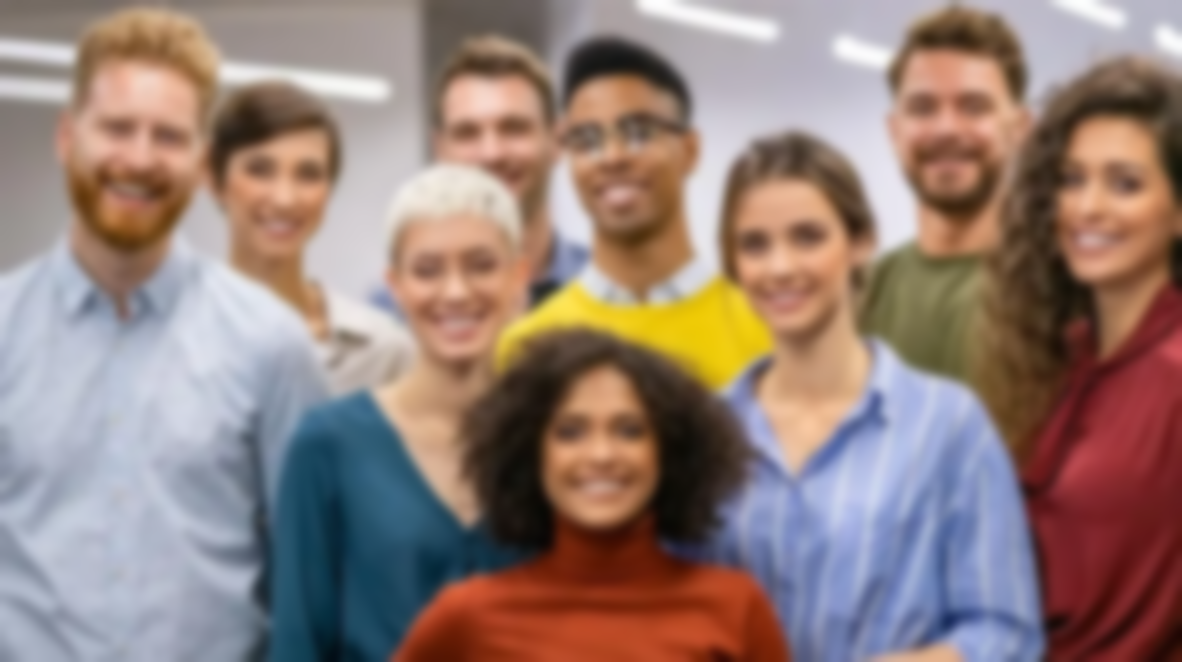
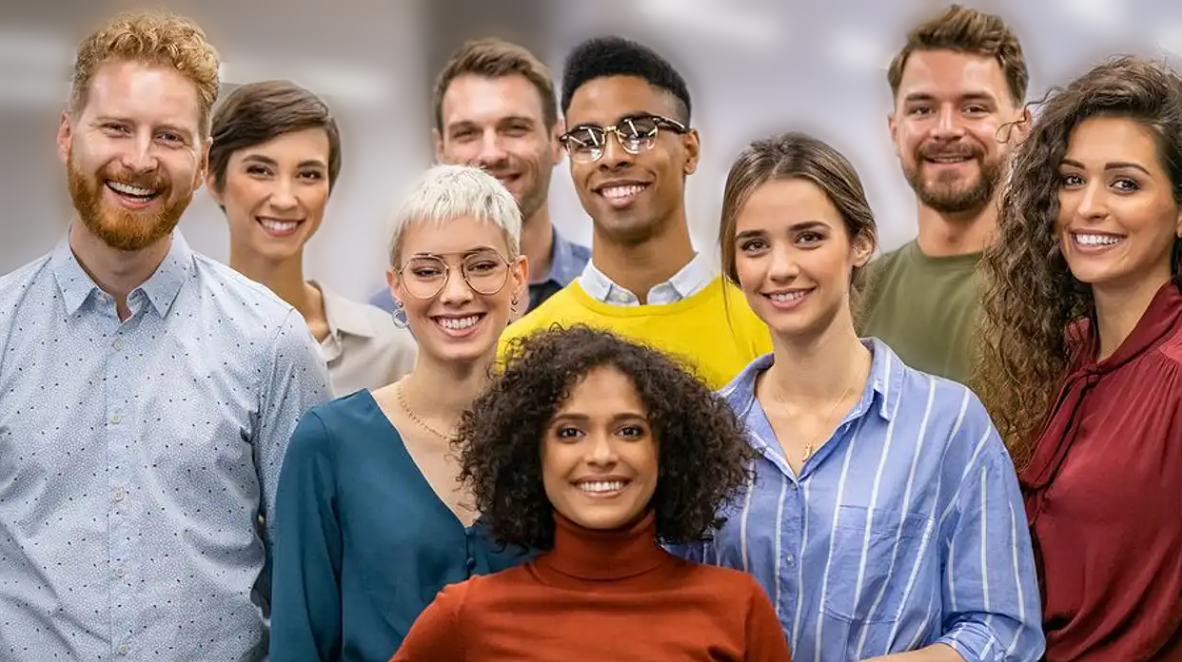
fixed remove bg and blur bg

diff --git a/src/elect_mt/processor.py b/src/elect_mt/processor.py
@@ -108,8 +108,22 @@ def blur_background_only(bgr: np.ndarray, model) -> np.ndarray:
 
 
 def _safe_process_segmentation(bgr: np.ndarray, model) -> np.ndarray | None:
+    def _grabcut_mask() -> np.ndarray | None:
+        try:
+            h, w = bgr.shape[:2]
+            mask = np.zeros((h, w), np.uint8)
+            rect = (int(w * 0.05), int(h * 0.05), int(w * 0.9), int(h * 0.9))
+            bgd_model = np.zeros((1, 65), np.float64)
+            fgd_model = np.zeros((1, 65), np.float64)
+            cv2.grabCut(bgr, mask, rect, bgd_model, fgd_model, 3, cv2.GC_INIT_WITH_RECT)
+            fg = (mask == cv2.GC_FGD) | (mask == cv2.GC_PR_FGD)
+            return fg.astype(np.float32)
+        except Exception as exc:
+            logger.warning("GrabCut fallback failed; skipping. (%s)", exc)
+            return None
+
     if model is None:
-        return None
+        return _grabcut_mask()
 
     rgb = cv2.cvtColor(bgr, cv2.COLOR_BGR2RGB)
     if rgb.dtype != np.uint8:
@@ -124,7 +138,7 @@ def _safe_process_segmentation(bgr: np.ndarray, model) -> np.ndarray | None:
 
     mask = getattr(result, "segmentation_mask", None)
     if mask is None:
-        return None
+        return _grabcut_mask()
     return mask
 
 
